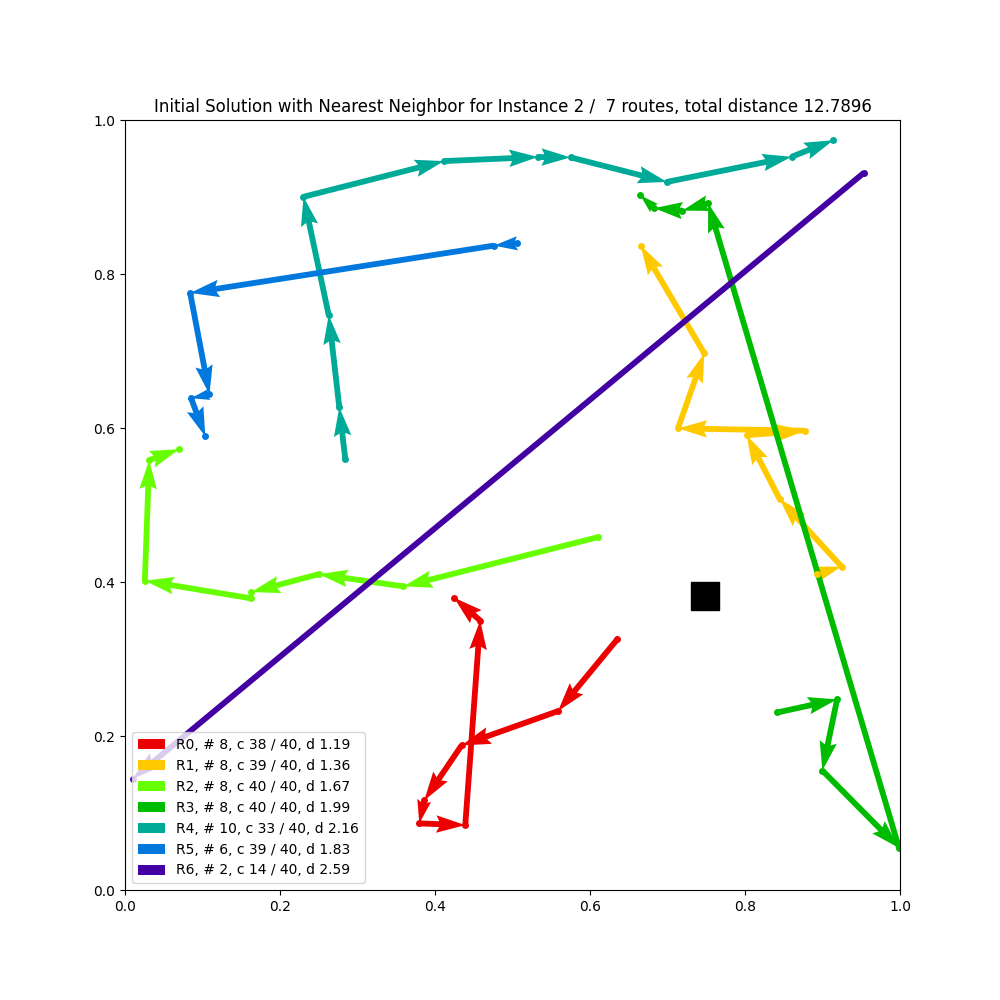
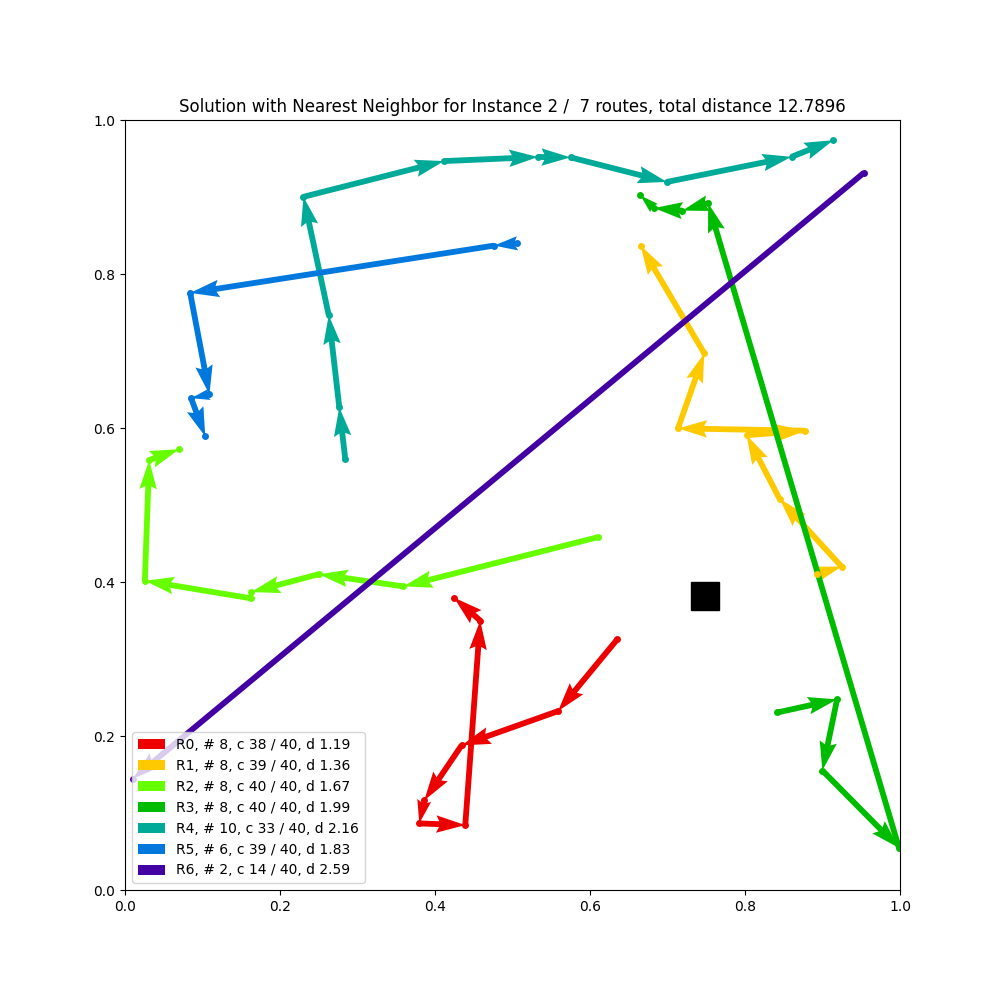
fix: Update plot titles for clarity and replace initial solution references

Changed region(s): [[0.155, 0.093, 0.868, 0.124]]

diff --git a/example/example.py b/example/example.py
@@ -122,7 +122,7 @@ if __name__ == "__main__":
             instance_nearest_sol,
             ax1=ax1,
             capacity=cfg["MAX_LOAD"],
-            title="Initial Solution with Nearest Neighbor for Instance {} / ".format(
+            title="Solution with Nearest Neighbor for Instance {} / ".format(
                 i + 1
             ),
         )
